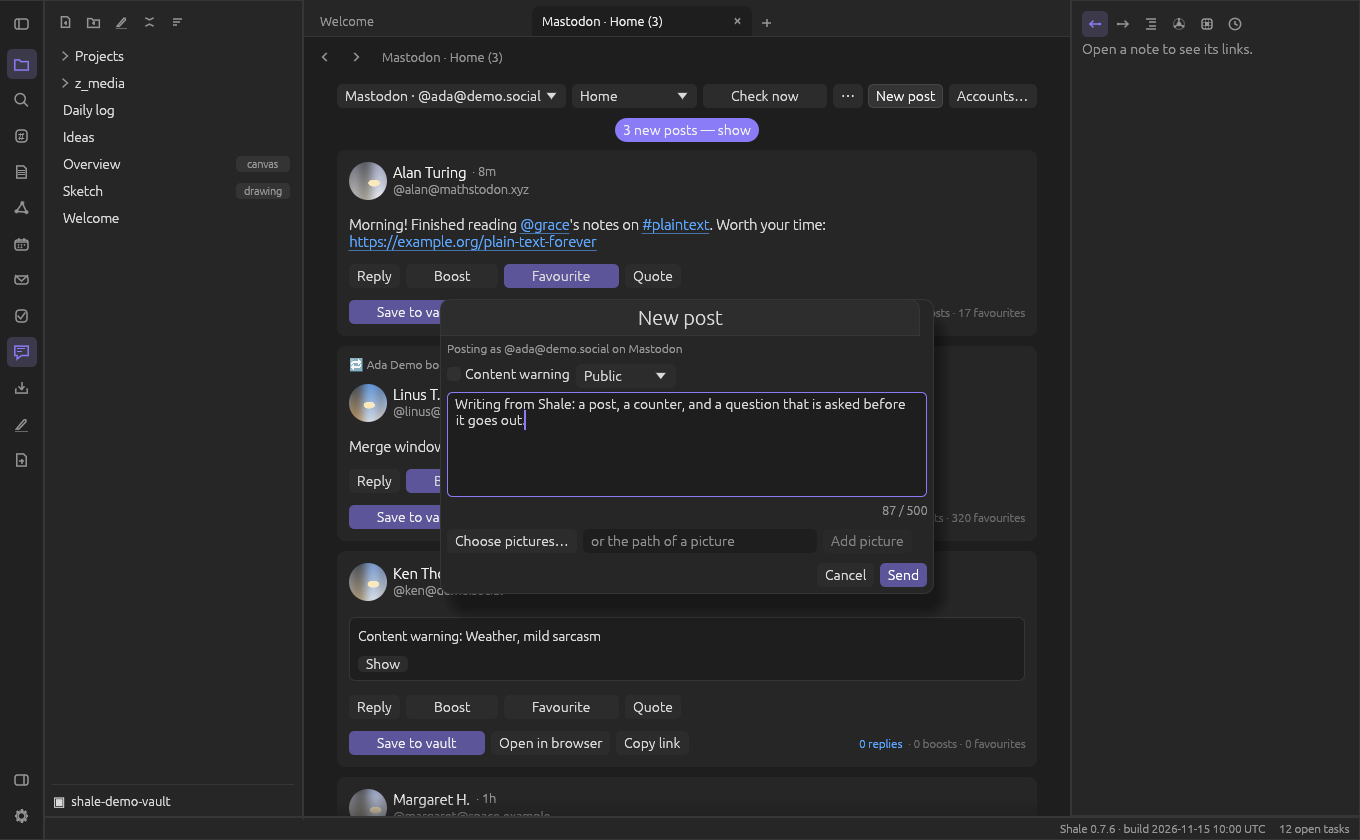
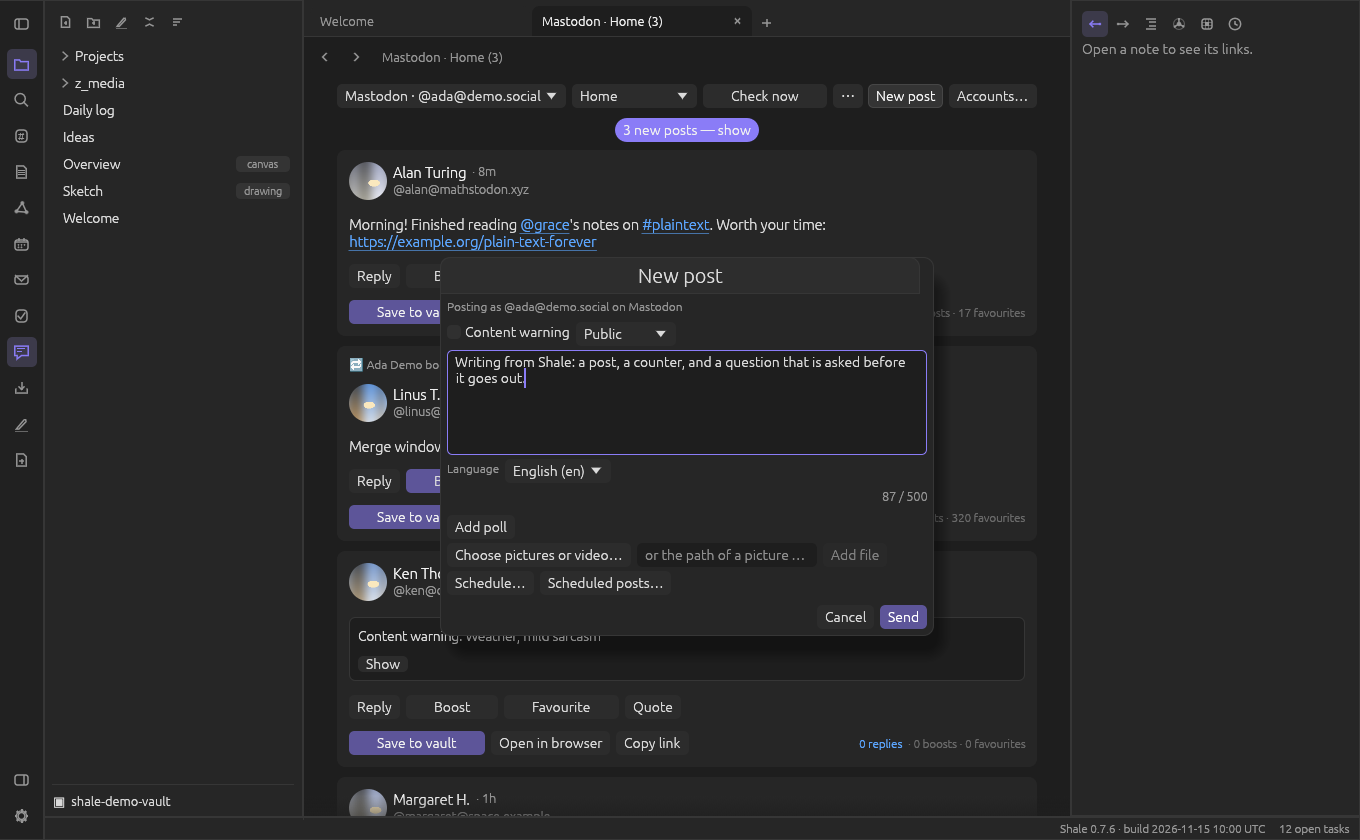
Docs, screenshots and changelog for the compose box extras
Closes #589

diff --git a/docs/userguide/Feeds.md b/docs/userguide/Feeds.md
@@ -64,6 +64,13 @@ your own.
   the card around it. Shale reads the state of a quoted Bluesky post (whether you liked or reposted
   it) along with the page, and before a Like or Repost on a post it does not know yet, so a post you
   already liked is never liked twice.
+- **Polls** of Mastodon posts are shown under the text. Before you have voted you see the options with
+  radio buttons (check boxes when several may be chosen) and a **Vote** button (it shows a spinner
+  while the server answers); afterwards, when the poll is closed, and on your own posts you see a bar
+  and a percentage for each option, your own choices ticked, the number of votes and the time left.
+
+![[social-poll.png]]
+
 - **The compose box** opens over the tab. It shows how long the post is against the limit of your
   server ("123 / 500"; Mastodon's limit comes from the server, an address counts 23; Bluesky
   allows 300 characters). **Send** or **Ctrl+Enter** is disabled while the post is empty or too
@@ -71,18 +78,35 @@ your own.
   post it answers if that is not public. Mastodon also has **Content warning** and **who may
   see it** (public, unlisted, followers only, mentioned people only). Bluesky has no content
   warnings for text, so the box has none. Links and @names in a Bluesky post become links.
-- **Pictures**: up to four. Press **Choose pictures…** to pick files in the system's file dialog
+- **Pictures** (or one video): up to four. Press **Choose pictures or video…** to pick files in the system's file dialog
   (on Linux it is the desktop portal's; if none is available Shale says so and you can still type
-  the path), **drop** picture files on the box (it lights up; a file that is no picture is refused
+  the path), **drop** files on the box (it lights up; a file that is no picture or video is refused
   with a message), or **paste** a picture you copied (Ctrl+V). You can also type the path of a
   picture (a path without a folder at the front starts at your vault) and press **Add picture**.
   Describe each one in its **alt text**
   field. JPEG, PNG, GIF and WebP work. Bluesky takes pictures up to 1 MB, so Shale scales a bigger one down and
   sends it as a JPEG (a too-big GIF is refused); a Mastodon picture over the server's limit is
   refused with its size.
+- **A video**: one per post, never together with pictures or a poll. MP4, QuickTime, WebM and MPEG
+  files work, up to what your server allows (Mastodon: its video limit, 40 MB if it names none) and
+  never more than 100 MB. Give it a description. Mastodon converts the video first, which can take
+  a minute; Bluesky's video service does the same, and Shale waits for it (up to five minutes). Before
+  it uploads, Bluesky is asked whether your account may upload a video now and its answer is shown if
+  not. A GIF is added as a picture.
+- **Language**: the box has a **Language** list (it starts with **Settings → Feeds → Post language**, which
+  starts as the language of your system). It is sent with the post so others can filter by it; choose
+  "No language" to send none. The next post of the account starts with the language you chose last.
+- **A poll** (Mastodon only): **Add poll** gives you two or more options (the server says how many and
+  how long they may be), how long the poll stays open, **People may choose several options** and
+  **Hide the totals until the poll ends**. A poll and pictures or a video cannot be in one post on
+  Mastodon, so the box offers only one of them. Bluesky has no polls.
+- **Schedule…** (Mastodon only): type a date (`2026-11-23`) and a time (`14:30`) in your local time,
+  at least five minutes ahead. The server keeps the post and sends it then; Shale says "Scheduled for
+  …" and nothing appears in your feed. **Scheduled posts…** (in the box, and in the feed's ⋯ menu)
+  lists what is waiting and lets you **Cancel post**. Bluesky cannot schedule posts.
 - **Quote**: Bluesky and Mastodon 4.5 or later quote the post for real. On an older Mastodon
   server the box adds the post's web address at the end of your text and tells you.
-- **Post this?** Sending always asks first, with your handle and who may see the post: **Post**
+- **Post this?** Sending always asks first, with your handle, who may see the post (and the time, for a scheduled one): **Post**
   sends, **Cancel** (or Esc) goes back to your text. While it is sent the box is busy and nothing goes out twice. If it
   fails the box stays open with your text and the message.
 - When it is out, the box closes and the post waits behind the "N new posts" button of your own

diff --git a/docs/FEATURES.md b/docs/FEATURES.md
@@ -1038,8 +1038,14 @@ key or a passphrase, never looks a key up on the network by itself, and tells yo
   author's @mention and is no more public than the post it answers), up to **4 pictures with a
   description each** (**Choose pictures…** opens the system's file dialog, or drop picture files
   on the box, or paste a picture with Ctrl+V, or type the path of a file or of one in the vault;
-  JPEG, PNG, GIF, WebP; Bluesky takes 1 MB, so bigger pictures are scaled down), and **Send** (Ctrl+Enter), which
-  always asks **"Post this?"** with your handle and who may see it before anything is posted.
+  JPEG, PNG, GIF, WebP; Bluesky takes 1 MB, so bigger pictures are scaled down) or **one video** (MP4, QuickTime, WebM, MPEG; up to
+  what the server allows and 100 MB; on Bluesky it goes through the video service), a **language** for the post (starts with the
+  setting Post language), on Mastodon a **poll** (options, duration, several choices, hidden totals; not together with
+  pictures or a video) and **Schedule…** to let the server send the post later (local date and time, at least 5 minutes ahead;
+  **Scheduled posts…** lists them and cancels one), and **Send** (Ctrl+Enter), which
+  always asks **"Post this?"** with your handle, who may see it and the time of a scheduled post before anything is posted.
+  Mastodon **polls on cards** show their options with bars and percentages (after you voted, when the poll is closed and on your
+  own posts) or a Vote button with a spinner (#589).
   Boosts and favourites do not ask. A **quote** uses the network's own quote (Bluesky; Mastodon
   4.5 and later); for an older Mastodon server the post's web address is put into the text and
   the box says so. Bluesky links, mentions and hashtags become clickable. When it is sent the box
@@ -1050,6 +1056,8 @@ key or a passphrase, never looks a key up on the network by itself, and tells yo
   sign-in.
 
 ![The compose box](userguide/z_media/screenshots/social-compose.png)
+
+![A poll on a card](userguide/z_media/screenshots/social-poll.png)
 
 - Try it without an account: `shale --screenshot out.png --view social` shows made-up posts.
 

diff --git a/docs/changelog-pending/I589.md b/docs/changelog-pending/I589.md
@@ -1,0 +1,7 @@
+### Added
+
+- Feeds, compose box: Mastodon **polls** (2 up to the server's limit of options, a duration, several choices, hidden totals; not with pictures or a video), **scheduled posts** (**Schedule…** with a local date and time at least 5 minutes ahead; **Scheduled posts…** in the box and the feed's menu lists them and cancels one), a **language** for the post (new setting **Post language** in Settings → Feeds; Mastodon `language`, Bluesky `langs`) and **one video** per post (Mastodon through the media upload, Bluesky through its video service with a service token; at most 100 MB). Polls of Mastodon posts are shown on the cards with bars and percentages and can be voted in, with a spinner in the Vote button (#589).
+
+### Changed
+
+- Feeds: the options of a Mastodon poll are no longer added to the post's text as a list; they are drawn as a poll (#589).

diff --git a/docs/userguide/Settings reference.md b/docs/userguide/Settings reference.md
@@ -195,6 +195,7 @@ system keyring, never in this file):
 | `social_last` | none; the account and feed shown last | set by Shale |
 | `social_replies` | off | the tick "Include replies from others" in the Import dialog |
 | `social_check_minutes` | 5 (0 = never) | Settings → Feeds, and Feeds → Accounts… |
+| `social_post_language` | the language of the system's locale ("en" without one); "" = none | Settings → Feeds → Post language: the language a new post in the feed view starts with (two-letter code) |
 
 ## Search ([[Search and pickers]])
 
